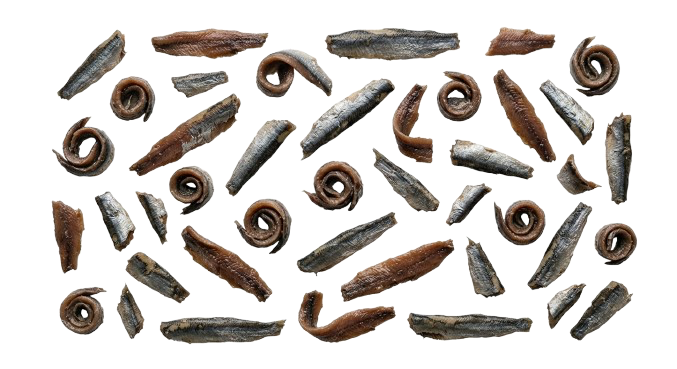
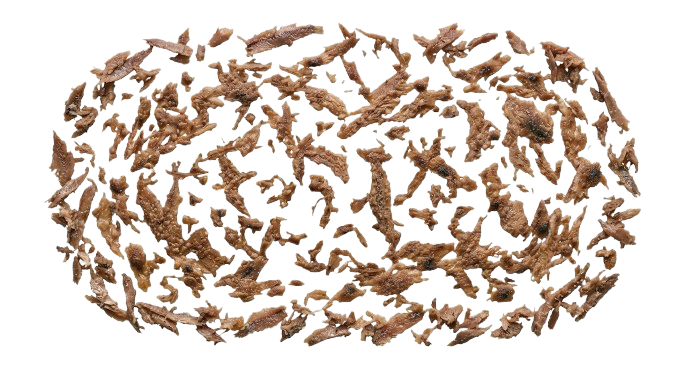
Fix: Sardellen/Walnuesse/Frischkaese aktualisiert + Family inset 14%
- Sardellen, Walnuesse, Frischkaese Standard + Family neu kopiert
- Family inset 12% -> 14% damit Belaege nicht ueber den Rand ragen

diff --git a/src/components/PizzaVisual.tsx b/src/components/PizzaVisual.tsx
@@ -695,7 +695,7 @@ export default function PizzaVisual({ sauce, cheese, selectedExtras, size, halfH
 
         {/* Layer 1: Under-Cheese Bild-Toppings */}
         {underImageLayers.map((src) => (
-          <div key={src} className={`absolute z-[1] pointer-events-none overflow-hidden ${isFamily ? "inset-[12%] rounded-2xl" : "inset-[12%] rounded-full"}`}>
+          <div key={src} className={`absolute z-[1] pointer-events-none overflow-hidden ${isFamily ? "inset-[14%] rounded-xl" : "inset-[12%] rounded-full"}`}>
             <Image
               src={src}
               alt="Topping"
@@ -708,7 +708,7 @@ export default function PizzaVisual({ sauce, cheese, selectedExtras, size, halfH
 
         {/* Layer 2: Käse-Overlay – auf Sauce-Bereich begrenzt (ohne Kruste) */}
         {hasCheese && (
-          <div className={`absolute z-[2] pointer-events-none overflow-hidden ${isFamily ? "inset-[12%] rounded-2xl" : "inset-[12%]"}`}>
+          <div className={`absolute z-[2] pointer-events-none overflow-hidden ${isFamily ? "inset-[14%] rounded-xl" : "inset-[12%]"}`}>
             <Image
               src={isFamily ? "/pizza/toppings/family/cheese-overlay.png" : "/pizza/cheese-overlay.png"}
               alt="Käse"
@@ -722,7 +722,7 @@ export default function PizzaVisual({ sauce, cheese, selectedExtras, size, halfH
 
         {/* Layer 3: Over-Cheese Bild-Toppings */}
         {overImageLayers.map((src) => (
-          <div key={src} className={`absolute z-[3] pointer-events-none overflow-hidden ${isFamily ? "inset-[12%] rounded-2xl" : "inset-[12%] rounded-full"}`}>
+          <div key={src} className={`absolute z-[3] pointer-events-none overflow-hidden ${isFamily ? "inset-[14%] rounded-xl" : "inset-[12%] rounded-full"}`}>
             <Image
               src={src}
               alt="Topping"
